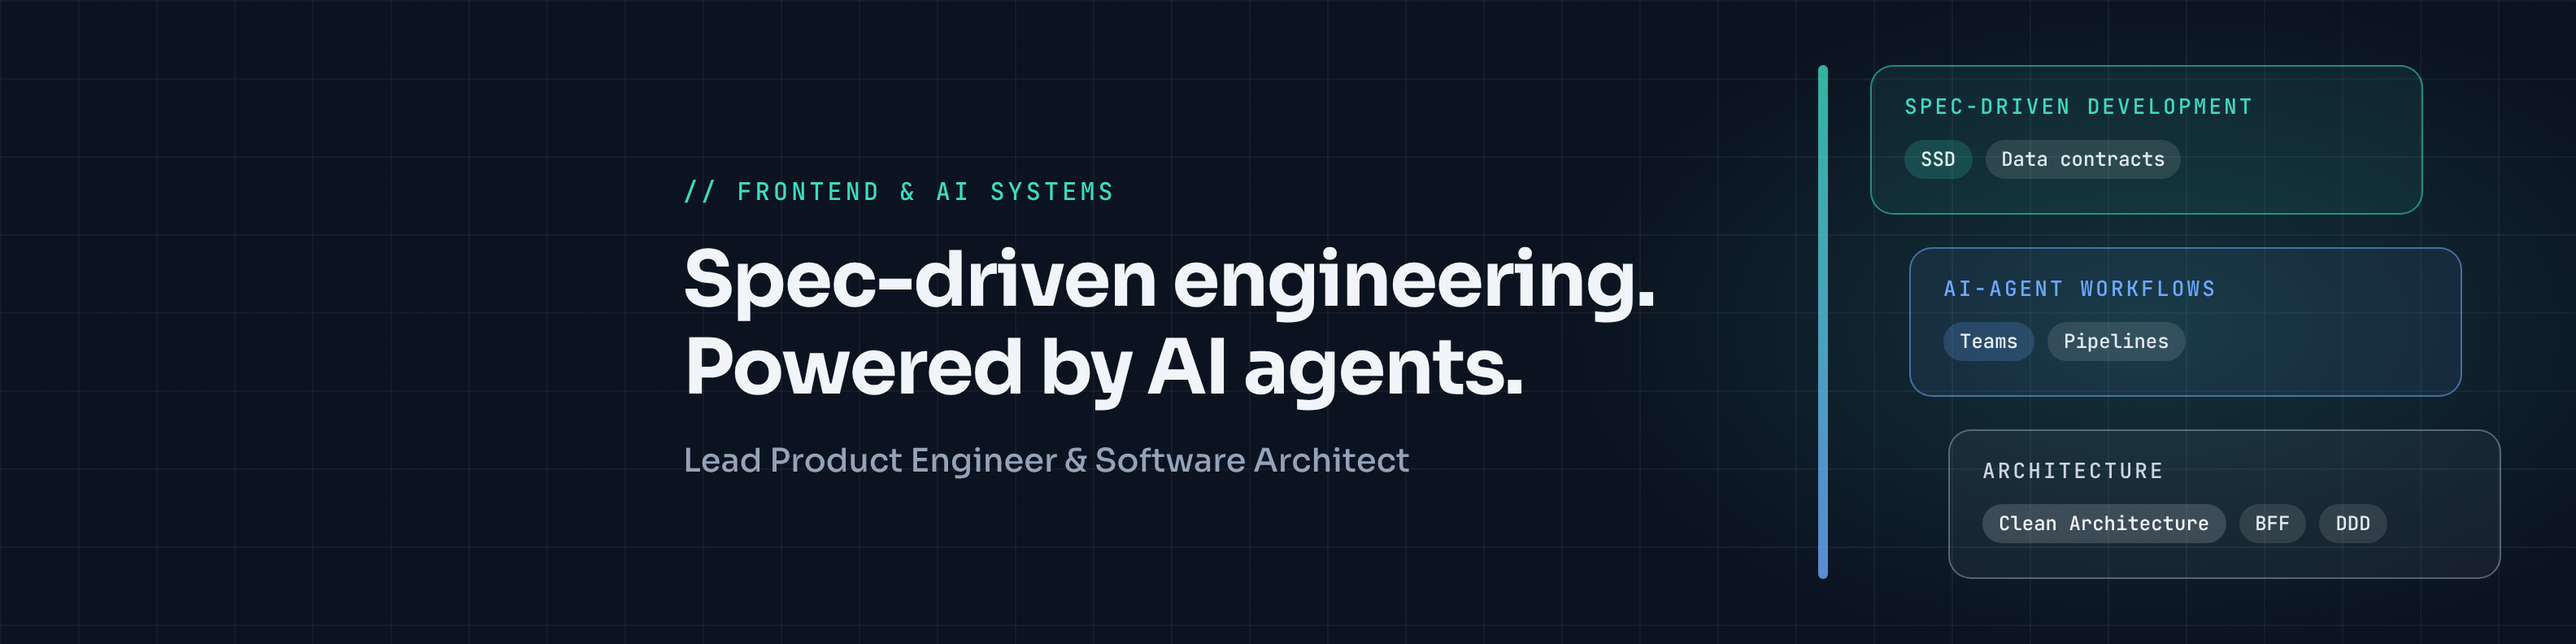
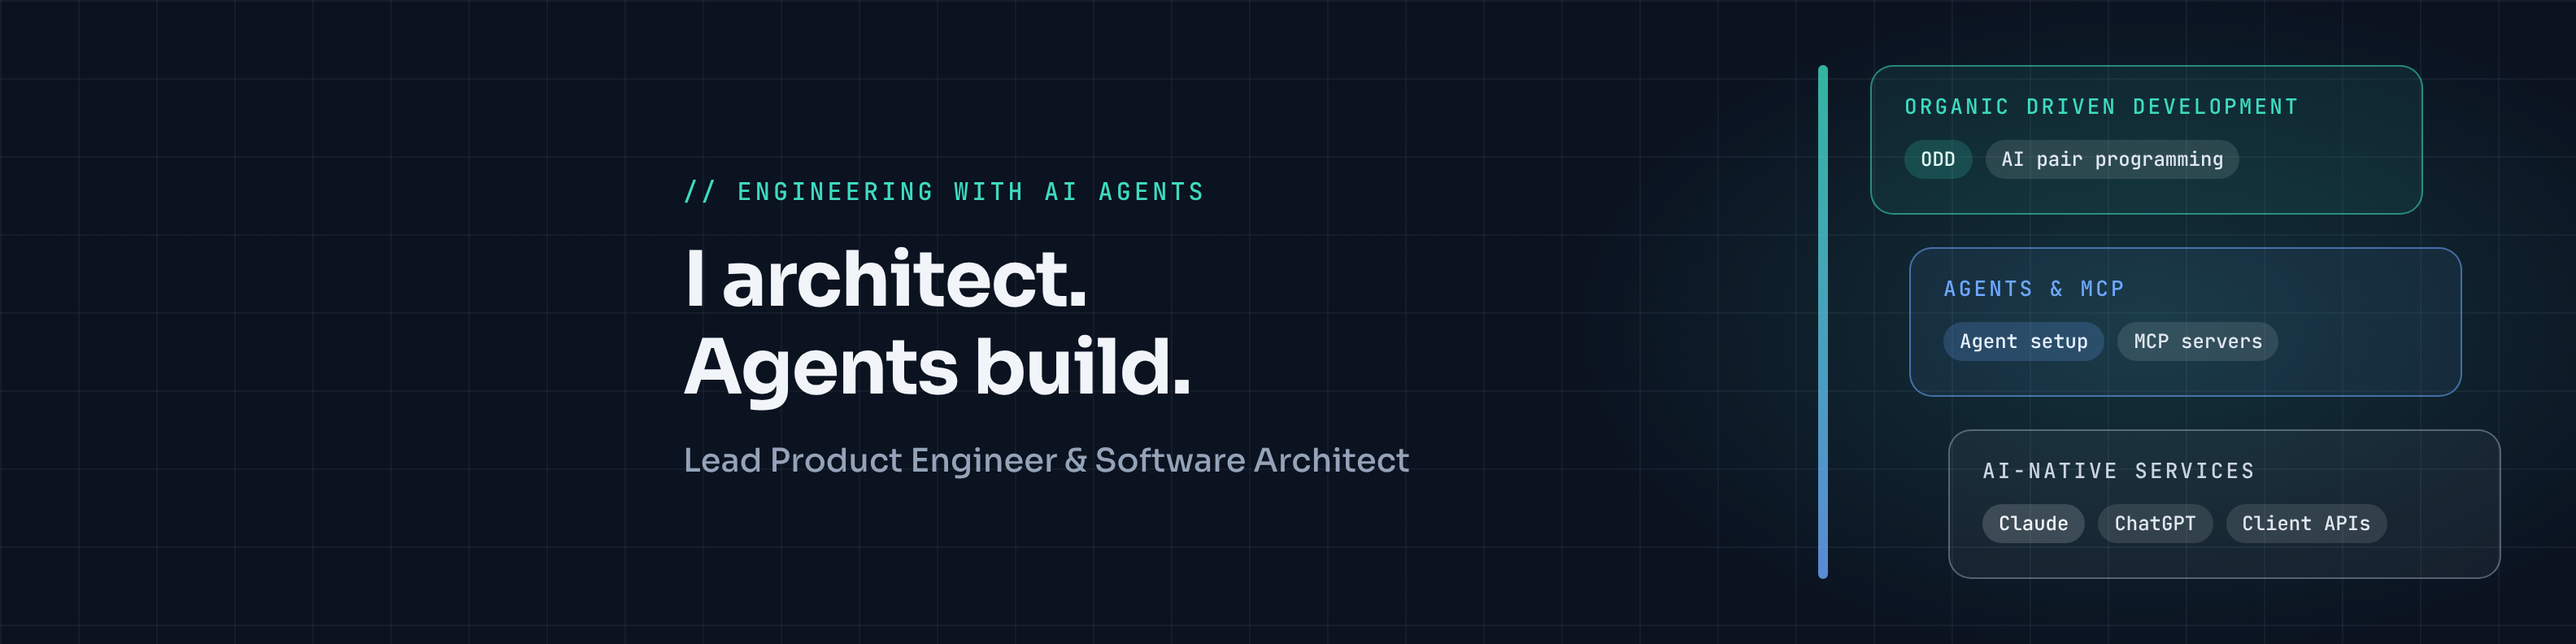
Refocus profile on AI pair programming, agents and MCP (ODD)
Claude-Session: https://claude.ai/code/session_01HgNvkK8hUCqzeadzz83pS8

diff --git a/README.md b/README.md
@@ -1,23 +1,24 @@
-<img src="./cover.png" alt="Deiby Olaya, Lead Product Engineer & Software Architect" width="100%">
+<img src="./cover.png" alt="Deiby Olaya: I architect. Agents build. Lead Product Engineer & Software Architect" width="100%">
 
 <img src="./assets/h-hello.png" alt="Hey, I'm Deiby" width="800">
 
-I design the systems that let software get built fast, and lately, the ones that let **AI agents build it with us**.
+I architect software and set up the AI agents that build it. Every day I pair with agents: they write the code, I own the architecture, the constraints, and the decisions.
 
-I started out writing frontend and mobile code. Over time I got more interested in what sits around the code: the architecture, the data contracts, and the middleware that decide whether a team moves fast or gets stuck.
+I'm also building services that live where people already work: APIs and tools that clients connect to their own Claude or ChatGPT subscription, so they can use our product straight from the chat.
 
 <img src="./assets/h-into.png" alt="What I'm into right now" width="800">
 
-- 🤖 **AI-agent development workflows**: figuring out how engineering teams can plug autonomous agents into their pipelines without losing control of quality
-- 📐 **Spec-Driven Development**: when the spec is solid, humans and agents can both build from it
-- 🧱 **Clean Architecture & BFF layers**: shaping complex APIs into the exact data a React, Svelte, or Vue app needs
-- 🗺 **Domain-Driven Design**: keeping software aligned with the problem it solves
+- 🤝 **Organic Driven Development (ODD)**: pair programming with AI agents where the process emerges from the work. Small change? Just do it. Uncertain? Research first. Substantial? Add structure. The idea comes from [Gentle AI](https://github.com/Gentleman-Programming/gentle-ai) by Alan Buscaglia (Gentleman Programming), and this is how I apply it
+- 🧩 **Agents & MCP**: configuring agents and building MCP servers that connect apps and APIs to AI
+- 🔌 **AI-native services**: shipping APIs that clients use directly from Claude or ChatGPT with their own subscription
+- 🧱 **Architecture**: Clean Architecture, BFF layers, and DDD, the part I care about most
 
 <img src="./assets/h-build.png" alt="How I like to build" width="800">
 
-- Architecture first, code second
+- Architecture first, agents write the code
+- Humans make the decisions, agents do the typing
+- Structure that emerges with the work, not before it
 - Clear contracts between frontend, backend, and agents
-- Fewer surprises, faster delivery
 
 <img src="./assets/h-stack.png" alt="My toolbox" width="800">
 
@@ -34,7 +35,7 @@ Also in the mix:
 
 <img src="./assets/h-connect.png" alt="Say hi" width="800">
 
-I'm always up for talking about software architecture, AI-assisted engineering, or frontend systems.
+I'm always up for talking about software architecture, AI agents, MCP, or frontend systems.
 
 <a href="https://www.linkedin.com/in/dolayao"><img src="./assets/btn-linkedin.png" alt="LinkedIn" height="60"></a>
 <a href="https://github.com/dolayao"><img src="./assets/btn-github.png" alt="GitHub" height="60"></a>
